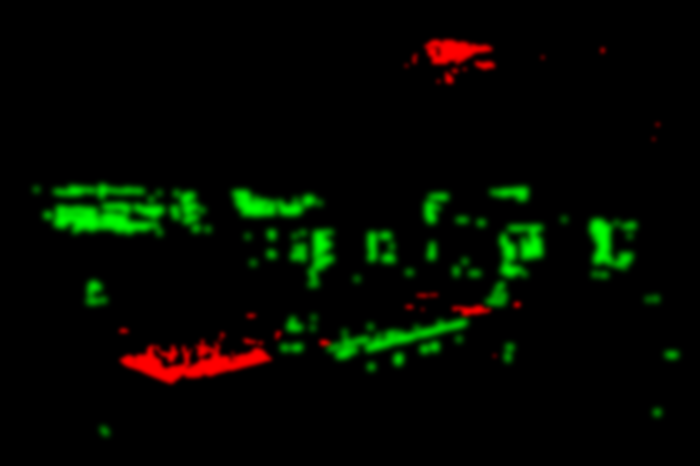
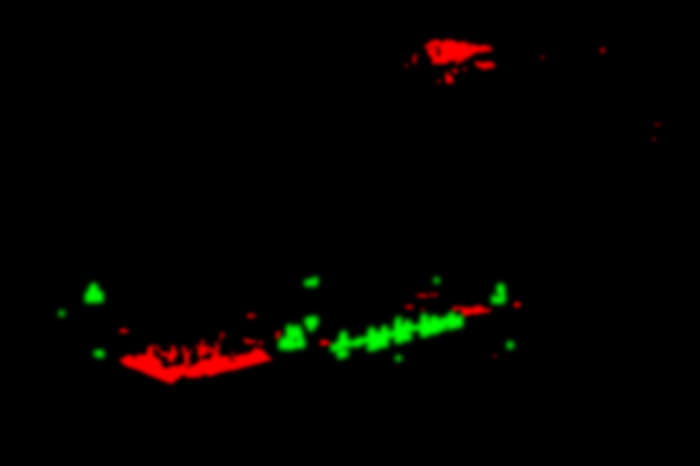
Pool demo: calmer motion, tighter fire masks, water back on the lagoon
Claude-Session: https://claude.ai/code/session_017zgNfKE9kkyFwF5JTjYFit

diff --git a/pool-demo/index.html b/pool-demo/index.html
@@ -325,7 +325,7 @@
       "  vec2 fu=vec2(uCrop.x+uv.x*uCrop.y,uv.y);",              // full-frame space (mask + regions)
       "  float m=texture2D(uMask,fu).r;",
       "  float depth=mix(.5,1.6,smoothstep(.55,.78,fu.y));",     // nearer water moves more
-      "  float t=uT;",
+      "  float t=uT*0.6;",
       "  vec2 w=vec2(sin(fu.y*170.+t*1.7+sin(fu.x*38.+t*.8)*2.2)+.6*sin(fu.x*95.-t*1.3),",
       "              cos(fu.x*120.-t*1.5+sin(fu.y*60.-t)*1.8)+.5*cos(fu.y*210.+t*2.1));",
       "  vec2 d=w*m*depth*vec2(.0011,.0016)*vec2(1./uCrop.y,1.);",
@@ -379,7 +379,7 @@
     }
     function frame(ms) {
       if (!visible) { running = false; return; }
-      gl.uniform1f(U.uT, ms / 1000);
+      gl.uniform1f(U.uT, ms / 1600);
       gl.uniform1f(U.uMix, parseFloat(sticky.style.getPropertyValue("--p")) || 0);
       gl.drawArrays(gl.TRIANGLE_STRIP, 0, 4);
       requestAnimationFrame(frame);
@@ -430,19 +430,19 @@
       "  // Water ripple distortion",
       "  vec2 w=vec2(sin(uv.y*180.+t*1.8+sin(uv.x*42.+t*.9)*2.3)+.6*sin(uv.x*100.-t*1.4),",
       "              cos(uv.x*125.-t*1.6+sin(uv.y*65.-t)*1.9)+.5*cos(uv.y*220.+t*2.2));",
-      "  vec2 wd=w*water*vec2(.0014,.0020);",
+      "  vec2 wd=w*water*vec2(.0010,.0014);",
       "  // Caustic shimmer",
       "  float c=sin(uv.x*270.+w.x*2.+t*1.3)*sin(uv.y*390.-w.y*2.-t*1.7);",
-      "  float caus=water*smoothstep(.55,1.,c)*.11;",
+      "  float caus=water*smoothstep(.60,1.,c)*.07;",
       "  // Fire flicker brightness + a touch of upward distortion",
       "  float fl=sin(t*11.+uv.x*85.)*.5+sin(t*17.+uv.x*55.-uv.y*30.)*.3+sin(t*5.3+uv.y*20.)*.2;",
       "  vec2 fd=vec2(sin(uv.y*95.-t*15.+uv.x*25.)*.0022,(fl*.5+.5)*.004)*fire;",
       "  vec3 col=texture2D(uImg,uv+wd+fd).rgb;",
-      "  col*=1.+fire*fl*.35;",
+      "  col*=1.+fire*fl*.22;",
       "  col+=vec3(.9,1.,1.)*caus;",
       "  // Warm glow around fire that breathes",
-      "  float glow=fire*(.4+.6*fl)*.18;",
-      "  col+=vec3(1.,.55,.2)*glow;",
+      "  float glow=fire*(.4+.6*fl)*.08;",
+      "  col+=vec3(1.,.5,.15)*glow;",
       "  gl_FragColor=vec4(col,1.);",
       "}"].join("\n");
     hosts.forEach(function (host) {
@@ -484,7 +484,7 @@
       }
       function frame(ms) {
         if (!visible) { running = false; return; }
-        gl.uniform1f(U.uT, ms / 1000);
+        gl.uniform1f(U.uT, ms / 1600);
         gl.drawArrays(gl.TRIANGLE_STRIP, 0, 4);
         requestAnimationFrame(frame);
       }
